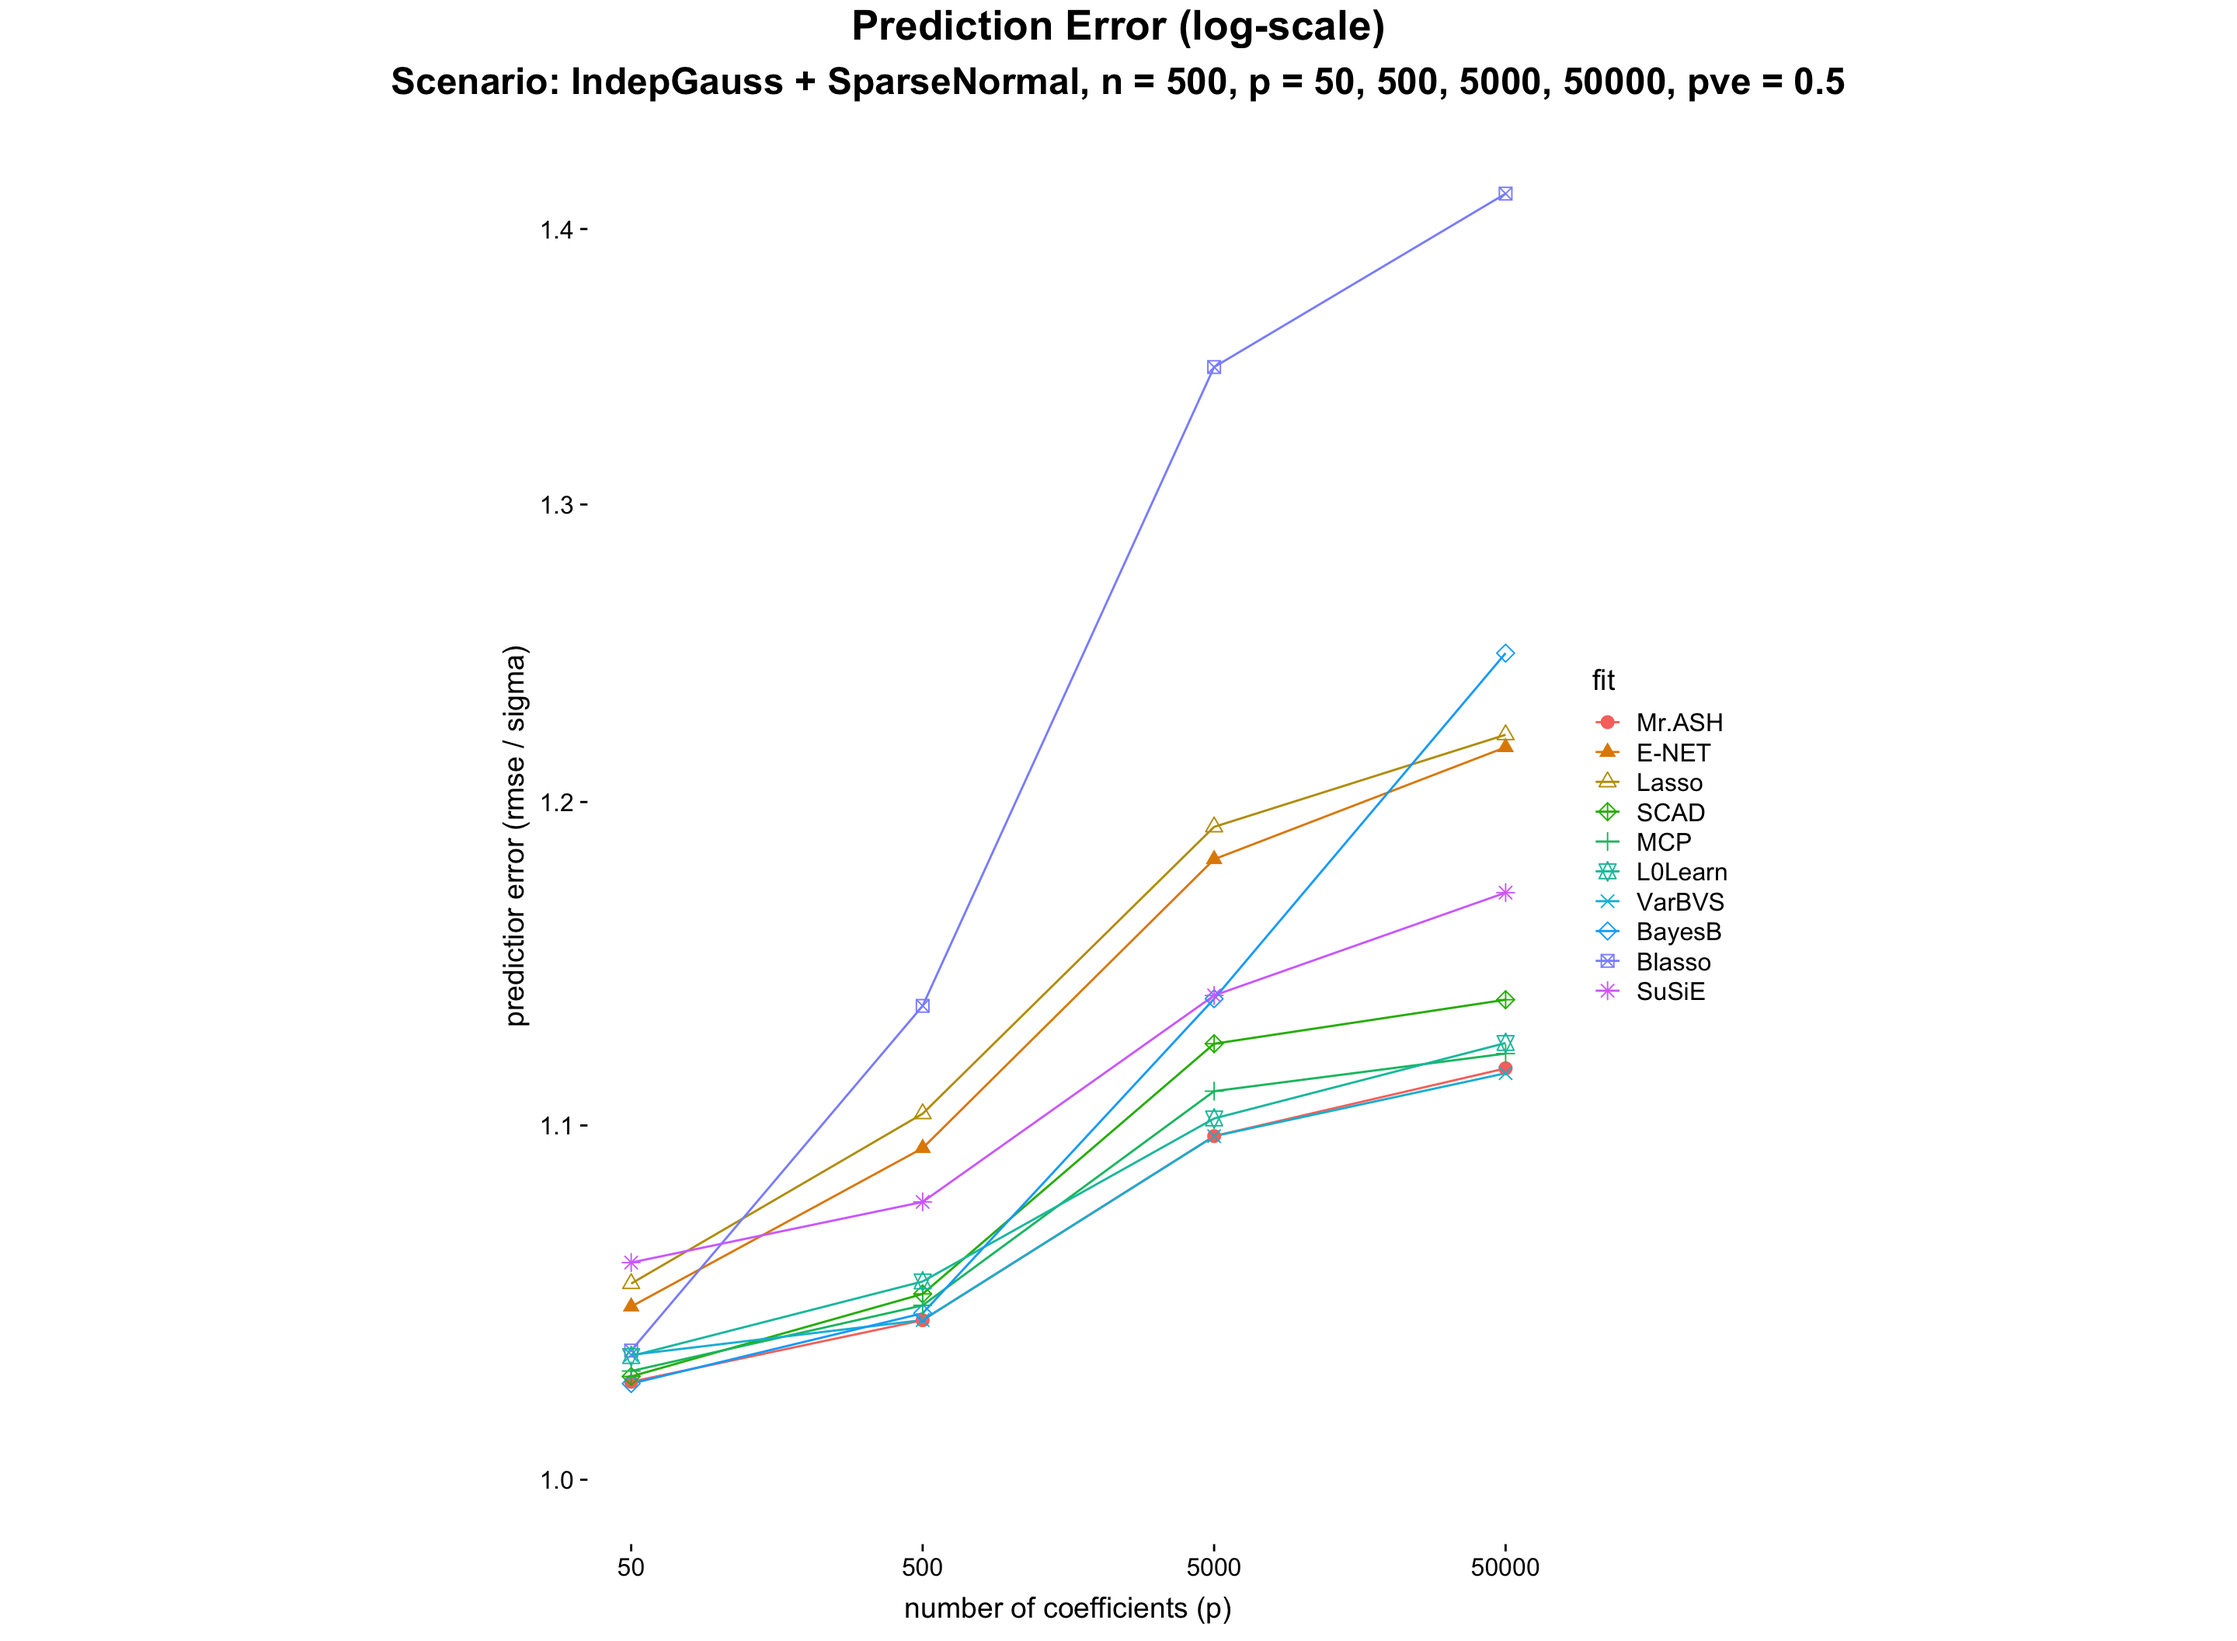
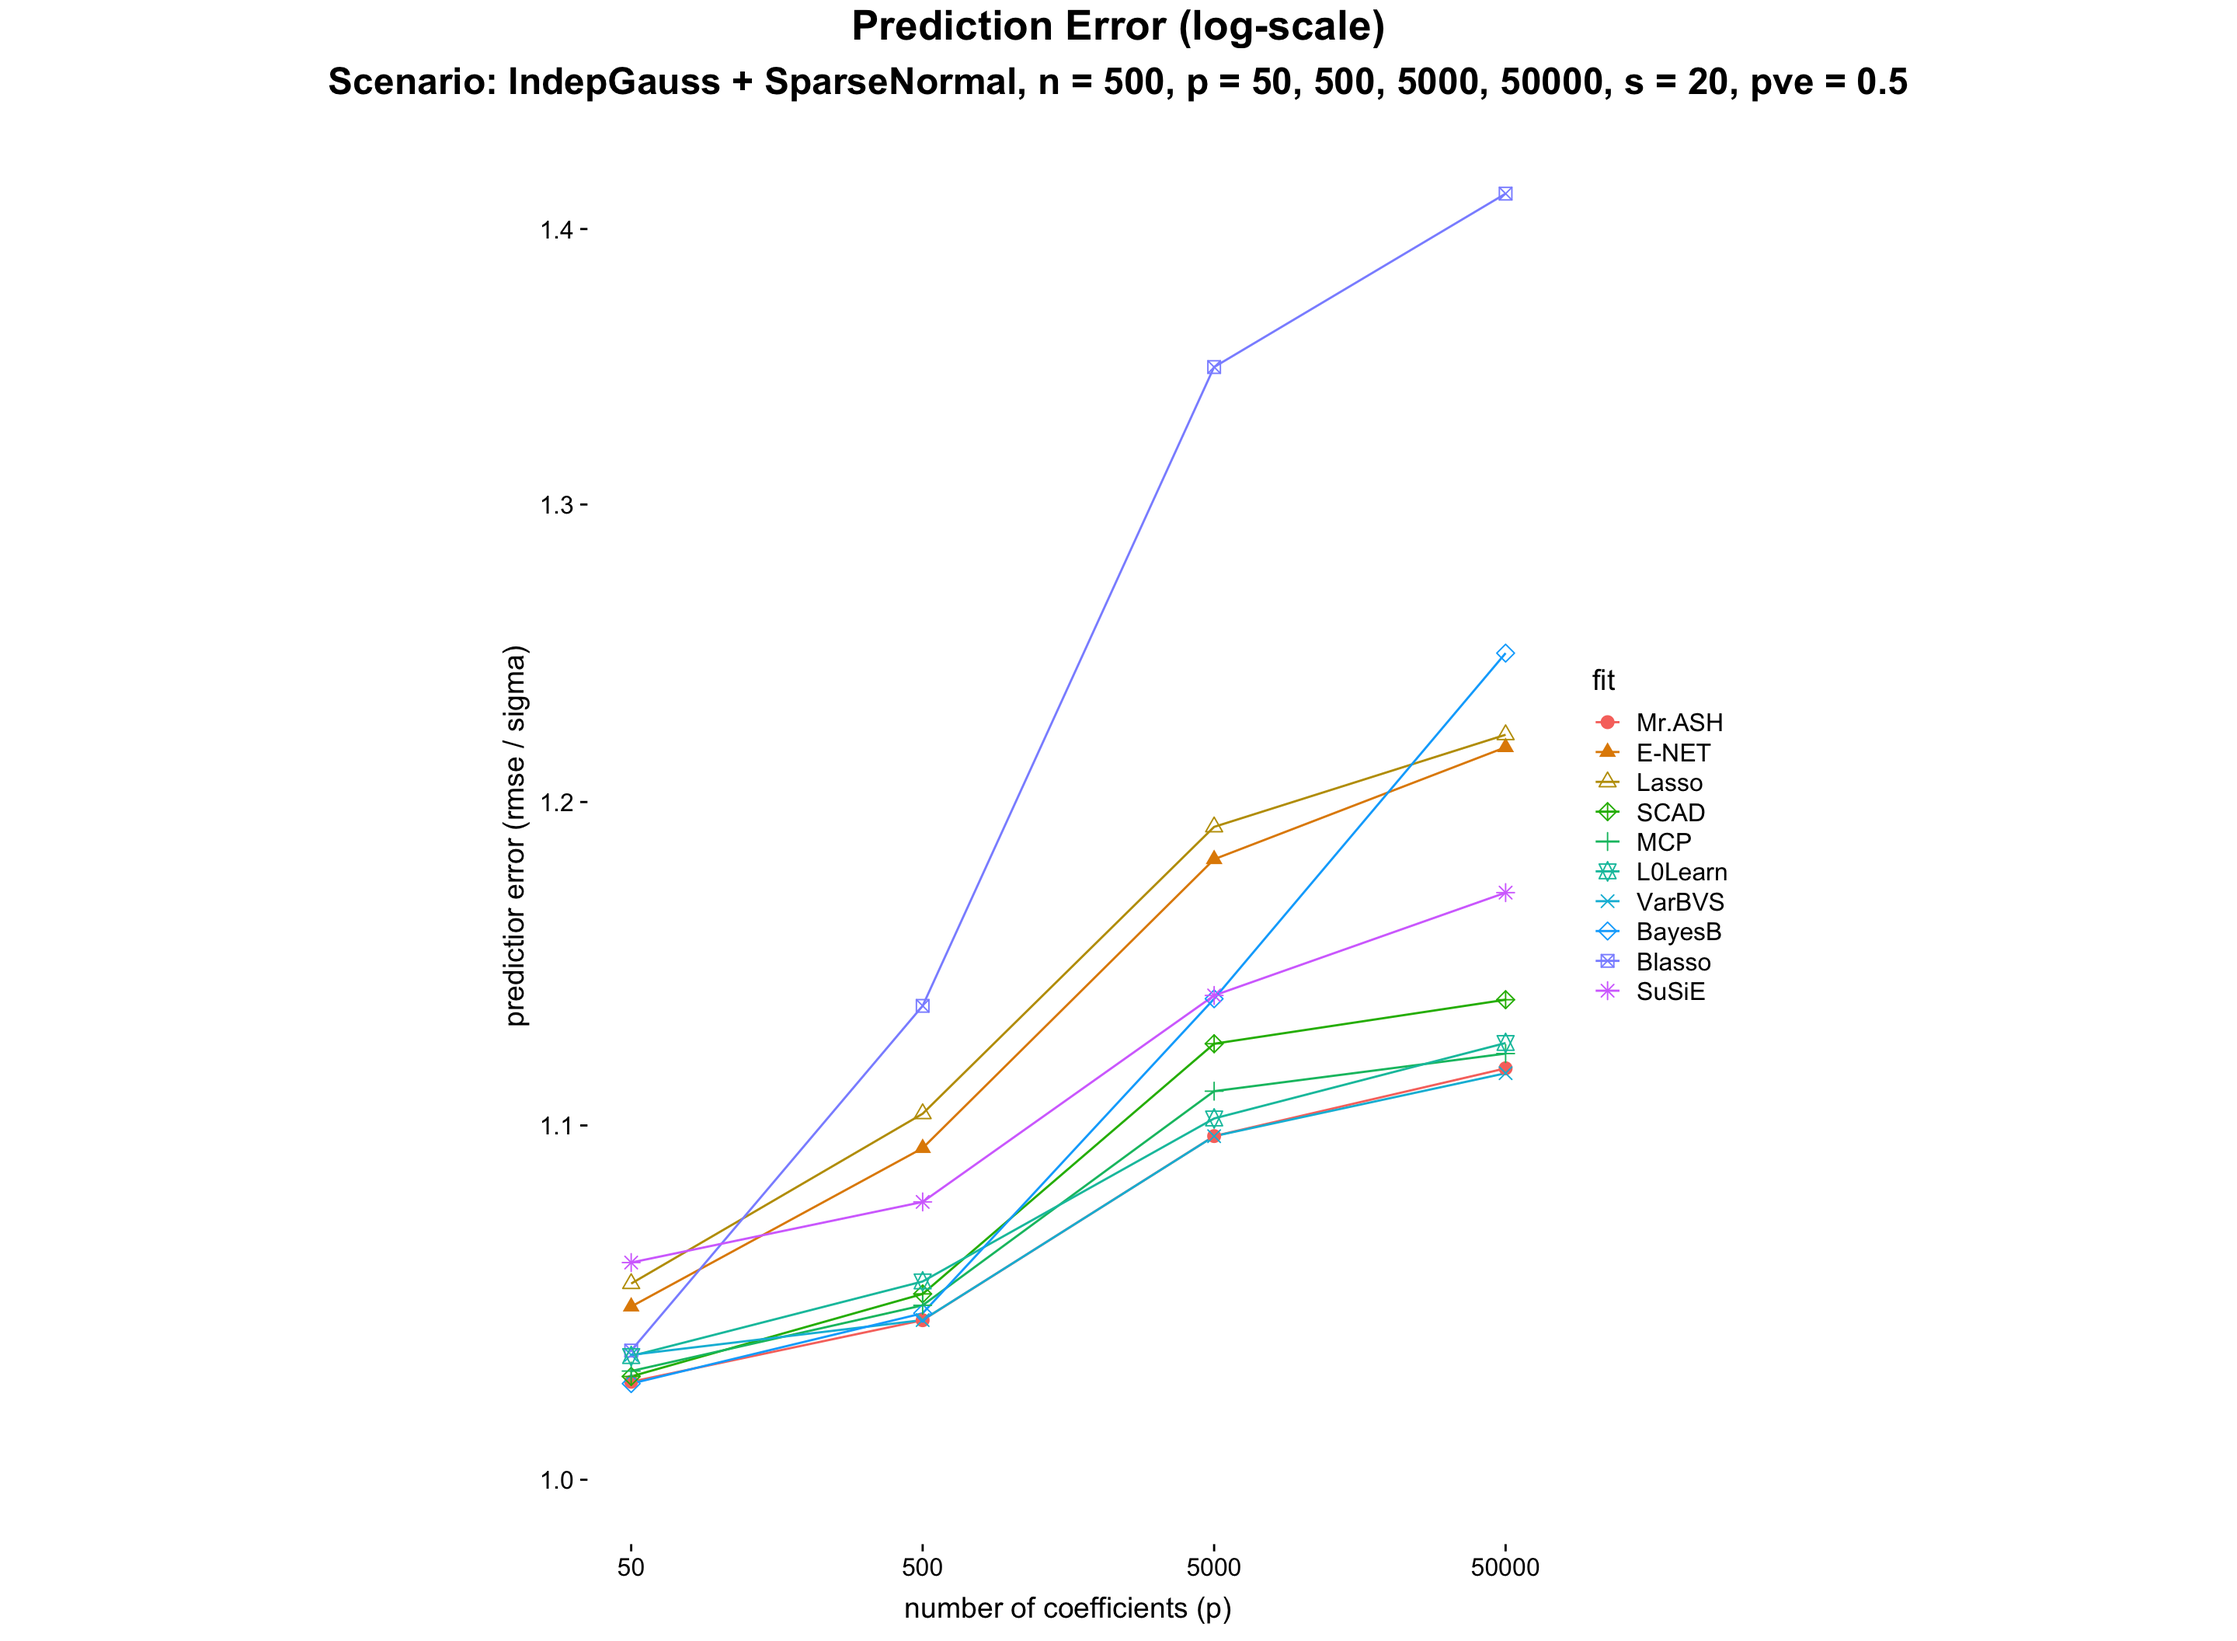
Build site.

Changed region(s): [[0.125, 0.0312, 0.8438, 0.0625]]

diff --git a/docs/Plots_for_paper.html b/docs/Plots_for_paper.html
@@ -527,10 +527,10 @@ This reproducible <a href="http://rmarkdown.rstudio.com">R Markdown</a> analysis
 <div class="panel panel-default">
 <div class="panel-heading">
 <p class="panel-title">
-<a data-toggle="collapse" data-parent="#workflowr-checks" href="#strongRepositoryversionstrongahrefhttpsgithubcomstephenslabmrashworkflowtree7a3e682d6e244693def77345d528873aa2cdd55dtargetblank7a3e682a"> <span class="glyphicon glyphicon-ok text-success" aria-hidden="true"></span> <strong>Repository version:</strong> <a href="https://github.com/stephenslab/mr-ash-workflow/tree/7a3e682d6e244693def77345d528873aa2cdd55d" target="_blank">7a3e682</a> </a>
+<a data-toggle="collapse" data-parent="#workflowr-checks" href="#strongRepositoryversionstrongahrefhttpsgithubcomstephenslabmrashworkflowtree60cee046ae7a9ed365c9ddb0e8a420c87db571d0targetblank60cee04a"> <span class="glyphicon glyphicon-ok text-success" aria-hidden="true"></span> <strong>Repository version:</strong> <a href="https://github.com/stephenslab/mr-ash-workflow/tree/60cee046ae7a9ed365c9ddb0e8a420c87db571d0" target="_blank">60cee04</a> </a>
 </p>
 </div>
[2 lines of base64/hex data omitted]
 <div class="panel-body">
 <p>
 Great! You are using Git for version control. Tracking code development and connecting the code version to the results is critical for reproducibility. The version displayed above was the version of the Git repository at the time these results were generated. <br><br> Note that you need to be careful to ensure that all relevant files for the analysis have been committed to Git prior to generating the results (you can use <code>wflow_publish</code> or <code>wflow_git_commit</code>). workflowr only checks the R Markdown file, but you know if there are other scripts or data files that it depends on. Below is the status of the Git repository when the results were generated:
@@ -593,6 +593,40 @@ Message
 </tr>
 </thead>
 <tbody>
+<tr>
+<td>
+Rmd
+</td>
+<td>
+<a href="https://github.com/stephenslab/mr-ash-workflow/blob/60cee046ae7a9ed365c9ddb0e8a420c87db571d0/analysis/Plots_for_paper.Rmd" target="_blank">60cee04</a>
+</td>
+<td>
+Youngseok Kim
+</td>
+<td>
+2019-10-31
+</td>
+<td>
+wflow_publish(“analysis/Plots_for_paper.Rmd”)
+</td>
+</tr>
+<tr>
+<td>
+html
+</td>
+<td>
+<a href="https://rawcdn.githack.com/stephenslab/mr-ash-workflow/7583dbf5aa64efd6356413d0ce495c797e5f5ae3/docs/Plots_for_paper.html" target="_blank">7583dbf</a>
+</td>
+<td>
+Youngseok Kim
+</td>
+<td>
+2019-10-31
+</td>
+<td>
+Build site.
+</td>
+</tr>
 <tr>
 <td>
 Rmd
@@ -1346,7 +1380,7 @@ p1 = ggplot(sdat1) + geom_line(aes(x = p, y = pred, color = fit)) +
   scale_y_continuous(trans = &quot;log10&quot;, limits = c(1.04,1.46), breaks = c(1.1,1.2,1.3,1.4))
 fig_main  = p1
 title     = ggdraw() + draw_label(&quot;Prediction Error (log-scale)&quot;, fontface = &#39;bold&#39;, size = 20) 
-subtitle  = ggdraw() + draw_label(&quot;Scenario: IndepGauss + Normal, n = 500, p = 50,100,200,500,1000,2000, pve = 0.5&quot;, fontface  = &#39;bold&#39;, size = 18) 
+subtitle  = ggdraw() + draw_label(&quot;Scenario: IndepGauss + Normal, n = 500, p = 50,100,200,500,1000,2000, s = p, pve = 0.5&quot;, fontface  = &#39;bold&#39;, size = 18) 
 fig       = plot_grid(title,subtitle,fig_main, ncol = 1, rel_heights = c(0.06,0.06,0.95))
 fig</code></pre>
 <p><img src="figure/Plots_for_paper.Rmd/fig3-1.png" width="1440" style="display: block; margin: auto;" /></p>
@@ -1526,6 +1560,17 @@ Date
 <tbody>
 <tr>
 <td>
+<a href="https://github.com/stephenslab/mr-ash-workflow/blob/7583dbf5aa64efd6356413d0ce495c797e5f5ae3/docs/figure/Plots_for_paper.Rmd/fig5-1.png" target="_blank">7583dbf</a>
+</td>
+<td>
+Youngseok Kim
+</td>
+<td>
+2019-10-31
+</td>
+</tr>
+<tr>
+<td>
 <a href="https://github.com/stephenslab/mr-ash-workflow/blob/d1401c1e29d2f13e73a0e0d3dca3fe4af6d3d8a9/docs/figure/Plots_for_paper.Rmd/fig5-1.png" target="_blank">d1401c1</a>
 </td>
 <td>
@@ -1580,7 +1625,7 @@ p1 = ggplot(sdat) + geom_line(aes(x = pve, y = pred, color = fit)) +
   coord_cartesian(ylim = c(1,1.5))
 
 title     = ggdraw() + draw_label(&quot;Prediction Error (log-scale)&quot;, fontface = &#39;bold&#39;, size = 20) 
-subtitle  = ggdraw() + draw_label(&quot;Scenario: IndepGauss + SparseNormal, n = 500, p = 2000, pve = 0 - 0.9&quot;, fontface  = &#39;bold&#39;, size = 18) 
+subtitle  = ggdraw() + draw_label(&quot;Scenario: IndepGauss + SparseNormal, n = 500, p = 2000, s = 20, pve = 0 - 0.9&quot;, fontface  = &#39;bold&#39;, size = 18) 
 p0        = ggplot() + geom_blank() + theme_cowplot() + theme(axis.line = element_blank())
 fig_main  = plot_grid(p0,p1,p0, nrow = 1, rel_widths = c(0.3,0.8,0.3))
 fig       = plot_grid(title,subtitle,fig_main, ncol = 1, rel_heights = c(0.03,0.04,0.95))
@@ -1608,6 +1653,17 @@ Date
 </tr>
 </thead>
 <tbody>
+<tr>
+<td>
+<a href="https://github.com/stephenslab/mr-ash-workflow/blob/7583dbf5aa64efd6356413d0ce495c797e5f5ae3/docs/figure/Plots_for_paper.Rmd/fig6-1.png" target="_blank">7583dbf</a>
+</td>
+<td>
+Youngseok Kim
+</td>
+<td>
+2019-10-31
+</td>
+</tr>
 <tr>
 <td>
 <a href="https://github.com/stephenslab/mr-ash-workflow/blob/d1401c1e29d2f13e73a0e0d3dca3fe4af6d3d8a9/docs/figure/Plots_for_paper.Rmd/fig6-1.png" target="_blank">d1401c1</a>
@@ -1664,7 +1720,7 @@ p1 = ggplot(sdat) + geom_line(aes(x = p, y = pred, color = fit)) +
   coord_cartesian(ylim = c(1,sqrt(2)))
 
 title     = ggdraw() + draw_label(&quot;Prediction Error (log-scale)&quot;, fontface = &#39;bold&#39;, size = 20) 
-subtitle  = ggdraw() + draw_label(&quot;Scenario: IndepGauss + SparseNormal, n = 500, p = 50, 500, 5000, 50000, pve = 0.5&quot;, fontface  = &#39;bold&#39;, size = 18) 
+subtitle  = ggdraw() + draw_label(&quot;Scenario: IndepGauss + SparseNormal, n = 500, p = 50, 500, 5000, 50000, s = 20, pve = 0.5&quot;, fontface  = &#39;bold&#39;, size = 18) 
 p0        = ggplot() + geom_blank() + theme_cowplot() + theme(axis.line = element_blank())
 fig_main  = plot_grid(p0,p1,p0, nrow = 1, rel_widths = c(0.3,0.8,0.3))
 fig       = plot_grid(title,subtitle,fig_main, ncol = 1, rel_heights = c(0.03,0.04,0.95))
@@ -1692,6 +1748,17 @@ Date
 </tr>
 </thead>
 <tbody>
+<tr>
+<td>
+<a href="https://github.com/stephenslab/mr-ash-workflow/blob/7583dbf5aa64efd6356413d0ce495c797e5f5ae3/docs/figure/Plots_for_paper.Rmd/fig7-1.png" target="_blank">7583dbf</a>
+</td>
+<td>
+Youngseok Kim
+</td>
+<td>
+2019-10-31
+</td>
+</tr>
 <tr>
 <td>
 <a href="https://github.com/stephenslab/mr-ash-workflow/blob/d1401c1e29d2f13e73a0e0d3dca3fe4af6d3d8a9/docs/figure/Plots_for_paper.Rmd/fig7-1.png" target="_blank">d1401c1</a>
